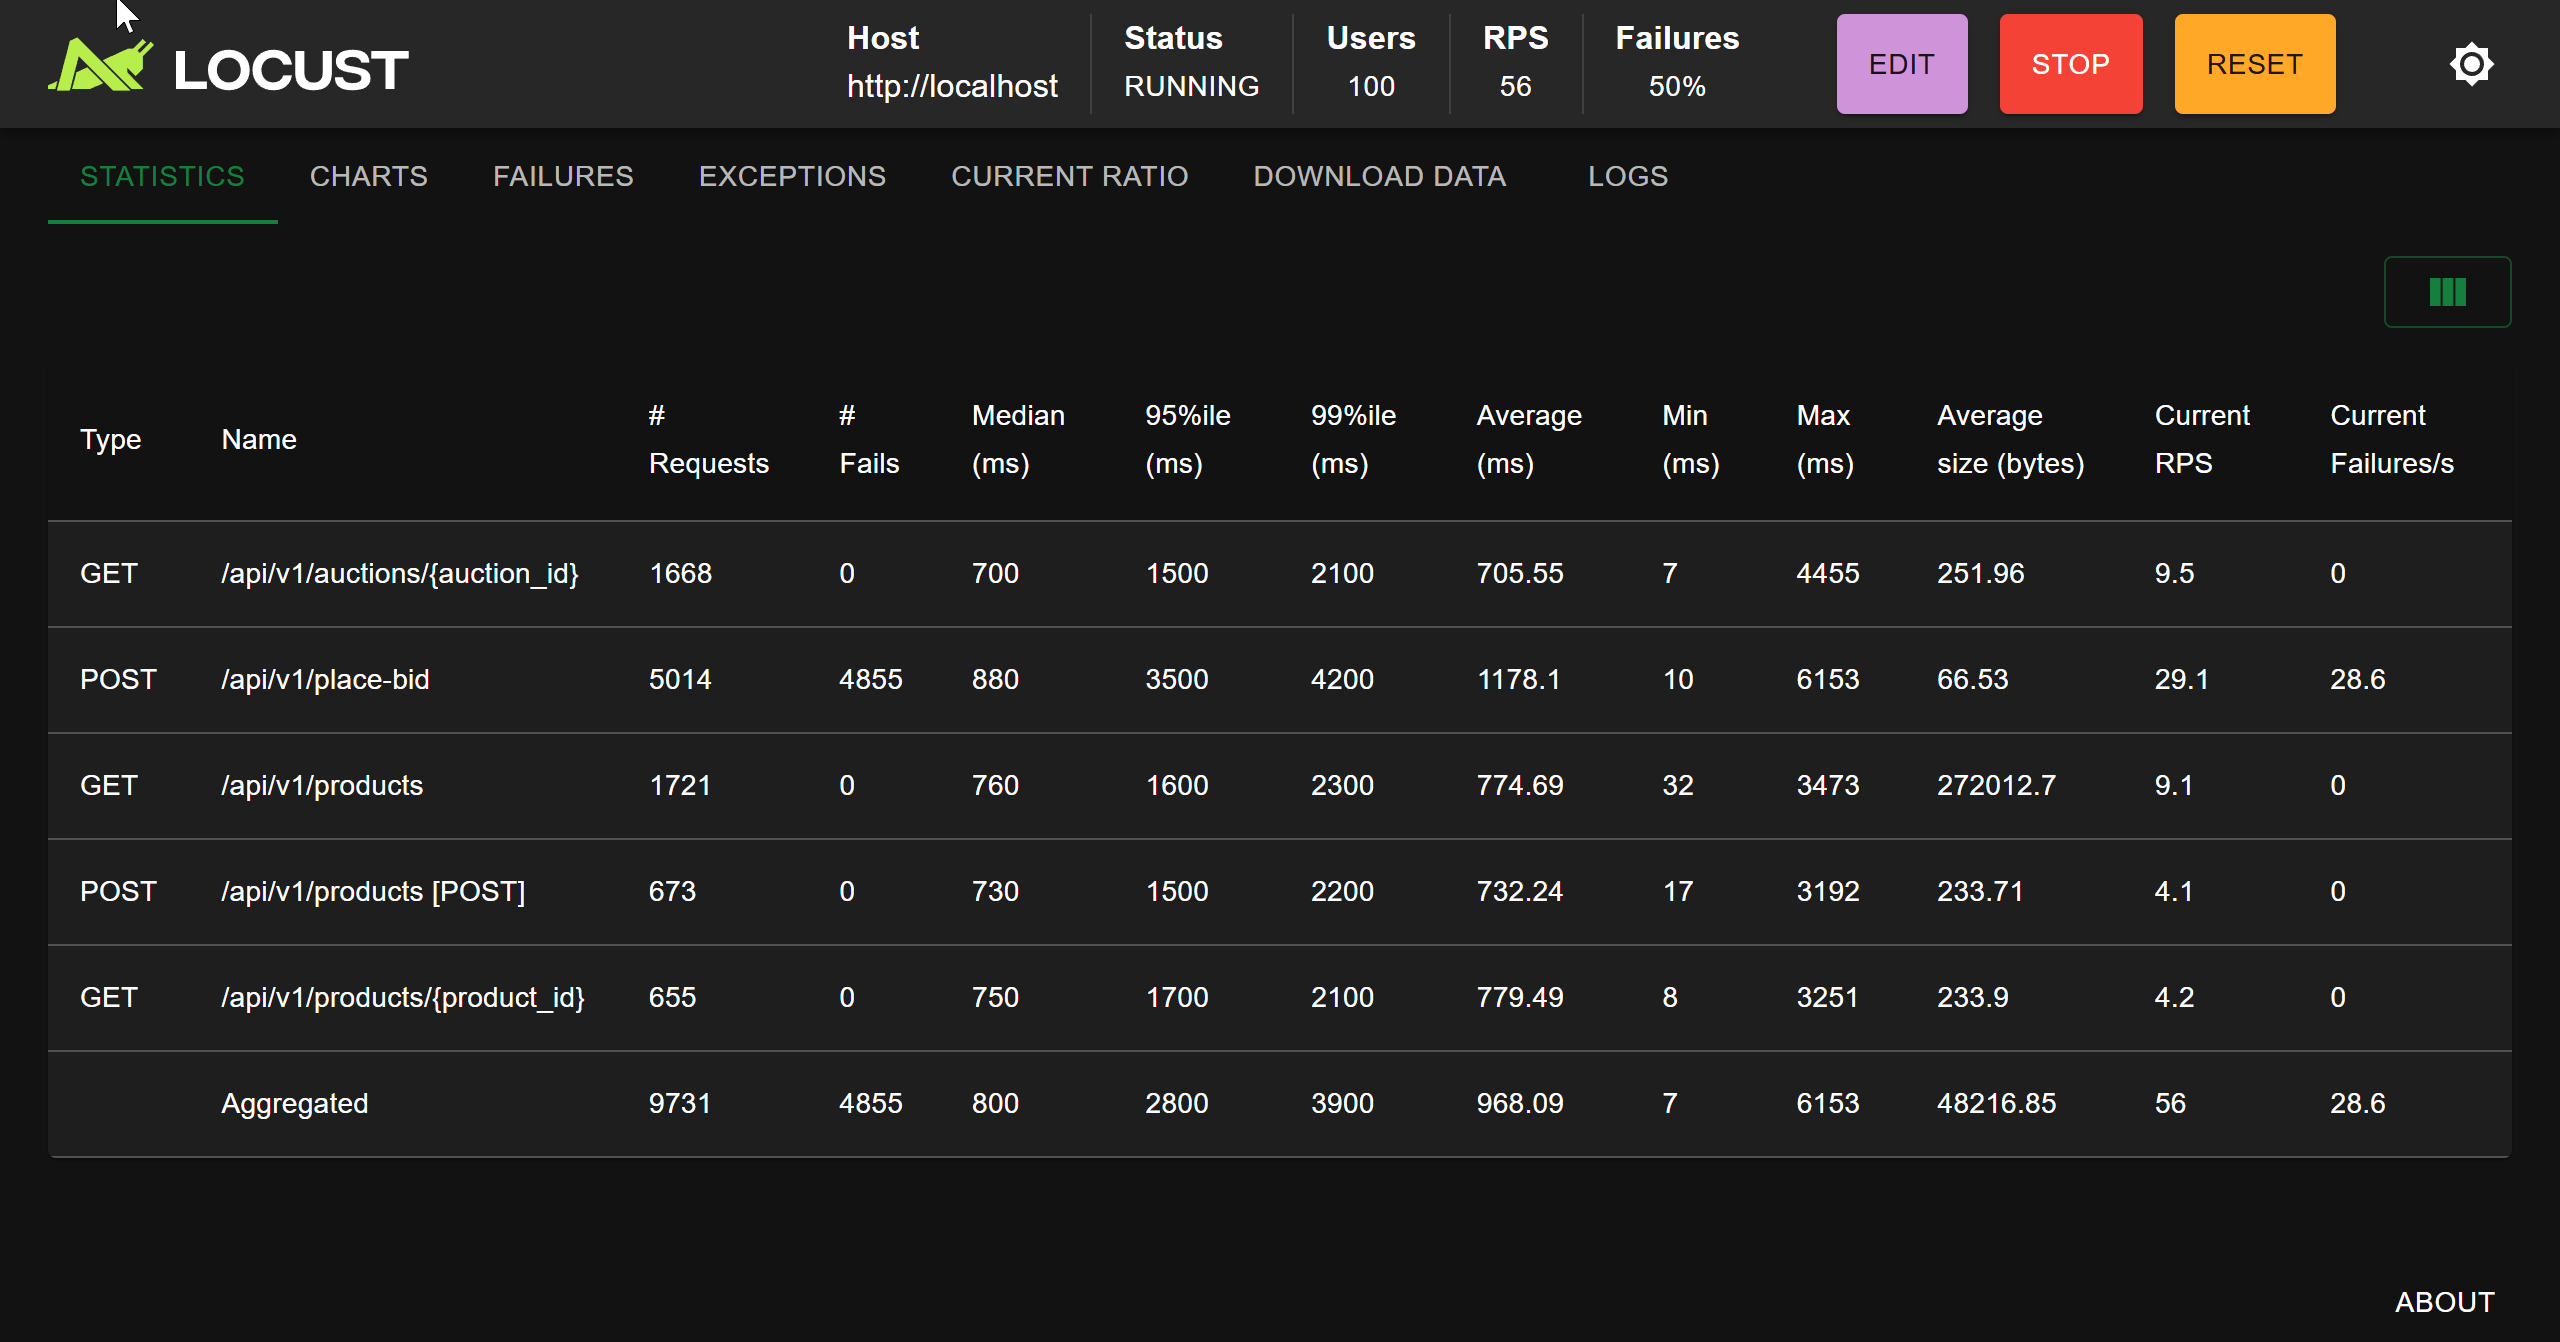
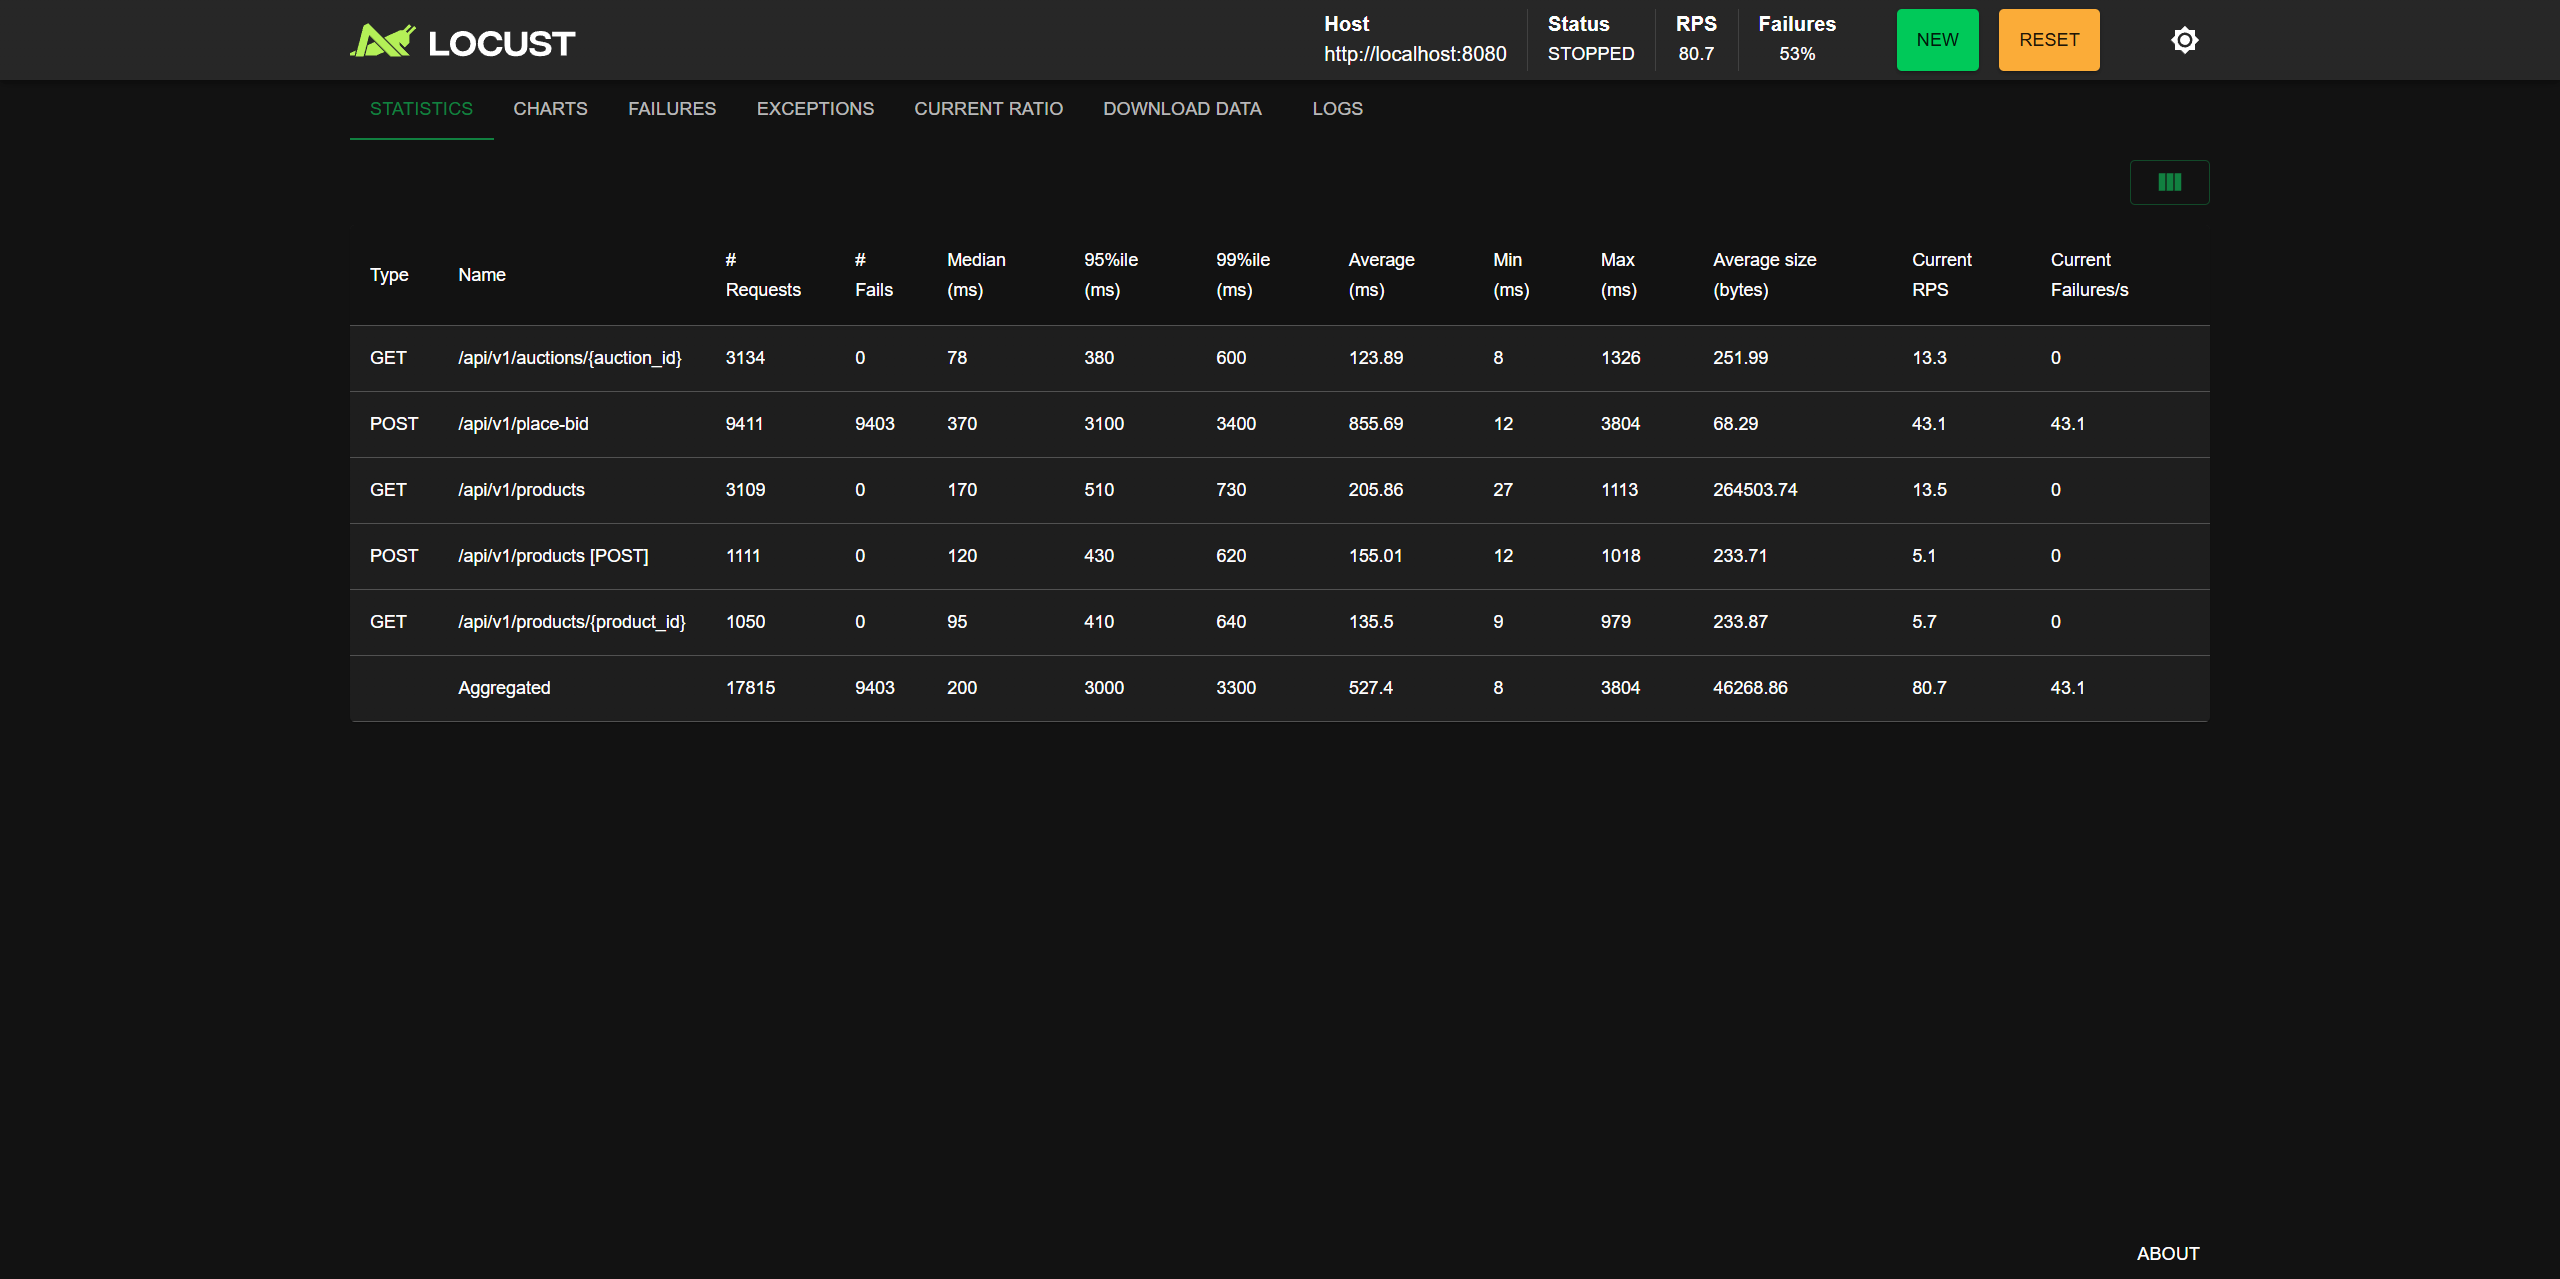
feat: dockerize frontend, update nginx config for horizontal scaling, and update README and tests for 8080 entrypoint

diff --git a/tests/security/race_condition.py b/tests/security/race_condition.py
@@ -26,7 +26,7 @@ from decimal import Decimal
 
 import httpx
 
-BASE_URL = "http://localhost"
+BASE_URL = "http://localhost:8080"
 HEADERS = {"Content-Type": "application/json"}
 
 

diff --git a/README.md b/README.md
@@ -47,10 +47,23 @@ cp .env.example .env
 docker compose up --build
 ```
 
-| URL                         | Description            |
-| --------------------------- | ---------------------- |
-| http://localhost/docs       | Swagger UI             |
-| http://localhost/dashboard/ | Live auction dashboard |
+| URL                              | Description            |
+| -------------------------------- | ---------------------- |
+| http://localhost:8080/docs       | Swagger UI             |
+| http://localhost:8080/dashboard/ | Live auction dashboard |
+
+> ⚠ Ensure port **8080** is available before starting the stack.  
+> It is used by the Nginx reverse proxy as the single entry point to the system.
+
+## Horizontal Scaling
+
+The API layer supports horizontal scaling behind the Nginx reverse proxy.
+
+By default, running `docker compose up` starts a single FastAPI instance. For higher throughput and better simulation of a production environment, multiple API replicas can be launched using Docker Compose scaling:
+
+```bash
+docker compose up --scale api=3
+```
 
 ## API Endpoints
 
@@ -68,7 +81,7 @@ docker compose up --build
 
 ## Testing the Full Flow (Swagger UI)
 
-Open **http://localhost/docs** and follow these steps in order:
+Open **http://localhost:8080/docs** and follow these steps in order:
 
 ---
 
@@ -115,7 +128,7 @@ Open **http://localhost/docs** and follow these steps in order:
 Open [WebSocket King](https://websocketking.com) and connect to:
 
 ```
-ws://localhost/ws/auction/<auction_id>?ticket=<ticket from step 3>
+ws://localhost:8080/ws/auction/<auction_id>?ticket=<ticket from step 3>
 ```
 
 > Keep this tab open — you will see bids arrive in real time.
@@ -144,7 +157,7 @@ The response should show `"current_price": "1200.00"` and `"status": "ACTIVE"`.
 
 ---
 
-> Prefer a visual interface? Use the **Live Dashboard** at http://localhost/dashboard/ — it covers the full flow without touching Swagger.
+> Prefer a visual interface? Use the **Live Dashboard** at http://localhost:8080/dashboard/ — it covers the full flow without touching Swagger.
 
 ## Consistency Logic
 
@@ -189,18 +202,25 @@ cp .env.example .env
 
 ![Locust stress test — 100 concurrent users](docs/stress-test.png)
 
-Run against **100 concurrent users**, spawn rate 10, targeting `http://localhost`:
+Run against **100 concurrent users**, spawn rate **10**, targeting `http://localhost:8080`:
 
-| Endpoint                    | Requests  | Failures  | Median (ms) | 95th % (ms) | 99th % (ms) | Avg (ms) | RPS    |
-| --------------------------- | --------- | --------- | ----------- | ----------- | ----------- | -------- | ------ |
-| `GET /api/v1/auctions/{id}` | 1,668     | 0         | 700         | 1,500       | 2,100       | 705      | 9.5    |
-| `POST /api/v1/place-bid`    | 5,014     | 4,855\*   | 880         | 3,500       | 4,200       | 1,178    | 29.1   |
-| `GET /api/v1/products`      | 1,721     | 0         | 760         | 1,600       | 2,300       | 774      | 9.1    |
-| `POST /api/v1/products`     | 673       | 0         | 730         | 1,500       | 2,200       | 732      | 4.1    |
-| `GET /api/v1/products/{id}` | 655       | 0         | 750         | 1,700       | 2,100       | 779      | 4.2    |
-| **Aggregated**              | **9,731** | **4,855** | **800**     | **2,800**   | **3,900**   | **968**  | **56** |
+| Endpoint                            | Requests   | Failures  | Median (ms) | 95th % (ms) | 99th % (ms) | Avg (ms)  | RPS      |
+| ----------------------------------- | ---------- | --------- | ----------- | ----------- | ----------- | --------- | -------- |
+| `GET /api/v1/auctions/{auction_id}` | 3,134      | 0         | 78          | 380         | 600         | 123.9     | 13.3     |
+| `POST /api/v1/place-bid`            | 9,411      | 9,403\*   | 370         | 3,100       | 3,400       | 855.7     | 43.1     |
+| `GET /api/v1/products`              | 3,109      | 0         | 170         | 510         | 730         | 205.9     | 13.5     |
+| `POST /api/v1/products`             | 1,111      | 0         | 120         | 430         | 620         | 155.0     | 5.1      |
+| `GET /api/v1/products/{product_id}` | 1,050      | 0         | 95          | 410         | 640         | 135.5     | 5.7      |
+| **Aggregated**                      | **17,815** | **9,403** | **200**     | **3,000**   | **3,300**   | **527.4** | **80.7** |
 
-\*The 4,855 bid failures are **expected behavior** — concurrent users submitting bids below the current price are correctly rejected by the distributed lock. All non-bid endpoints show **0 failures**. This is the system working as designed, not a bug.
+\*_The 9,403 failures on `place-bid` are expected behavior under high concurrency._
+
+When multiple users attempt to place bids simultaneously, the system enforces
+consistency using distributed locking and bid validation. Bids that arrive
+after a higher bid has already been accepted are correctly rejected.
+
+All other endpoints show **0 failures**, indicating the API remains stable
+under load while protecting auction integrity.
 
 **Race condition test results** (`tests/security/race_condition.py`):
 
@@ -233,7 +253,7 @@ pip install -r requirements.txt
 **Running the stress test** (with venv active):
 
 ```bash
-locust -f tests/stress/locustfile.py --host=http://localhost
+locust -f tests/stress/locustfile.py --host=http://localhost:8080
 ```
 
 Open http://localhost:8089 → Users: 100, Spawn rate: 10
@@ -250,10 +270,28 @@ python tests/security/race_condition.py
 
 ## CI/CD Pipeline
 
-```
-Push to any branch  →  Run tests + migrations (PostgreSQL + Redis services)
-Push to main        →  Tests pass → Build Docker image → Push to Docker Hub
-```
+The project includes a full CI/CD pipeline powered by GitHub Actions.
+
+**CI workflow**
+
+On every push and pull request:
+
+1. Start PostgreSQL and Redis containers
+2. Build the API container
+3. Run database migrations
+4. Execute the full test suite with `pytest`
+
+This ensures the application always builds and passes tests before deployment.
+
+**Deployment workflow**
+
+When changes are pushed to the `main` branch:
+
+1. Build the Docker image
+2. Push the image to **GitHub Container Registry (GHCR)**
+3. Trigger a redeploy on **Railway** via the Railway GraphQL API
+
+This guarantees that every deployed version originates from a tested container image.
 
 See `.github/workflows/deploy.yml` for the full pipeline definition.
 
